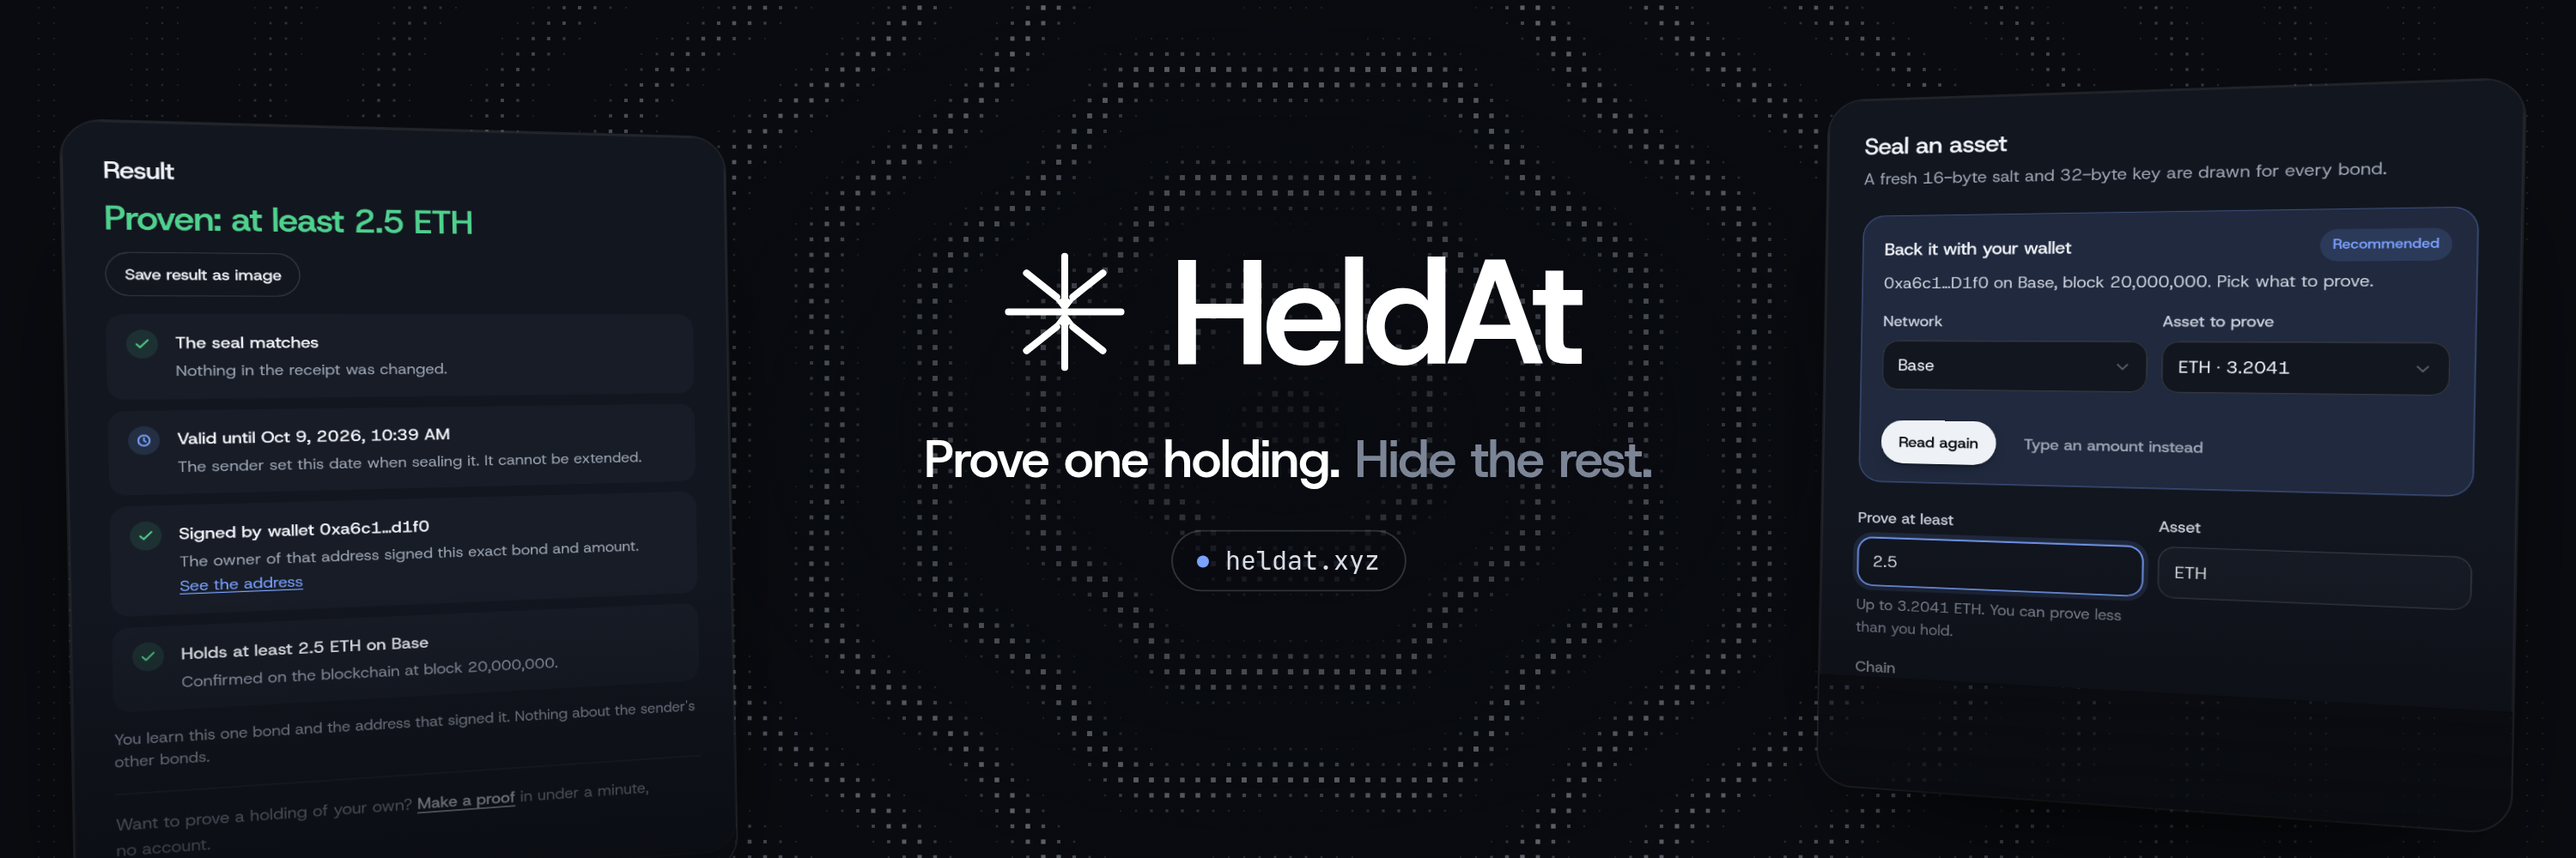
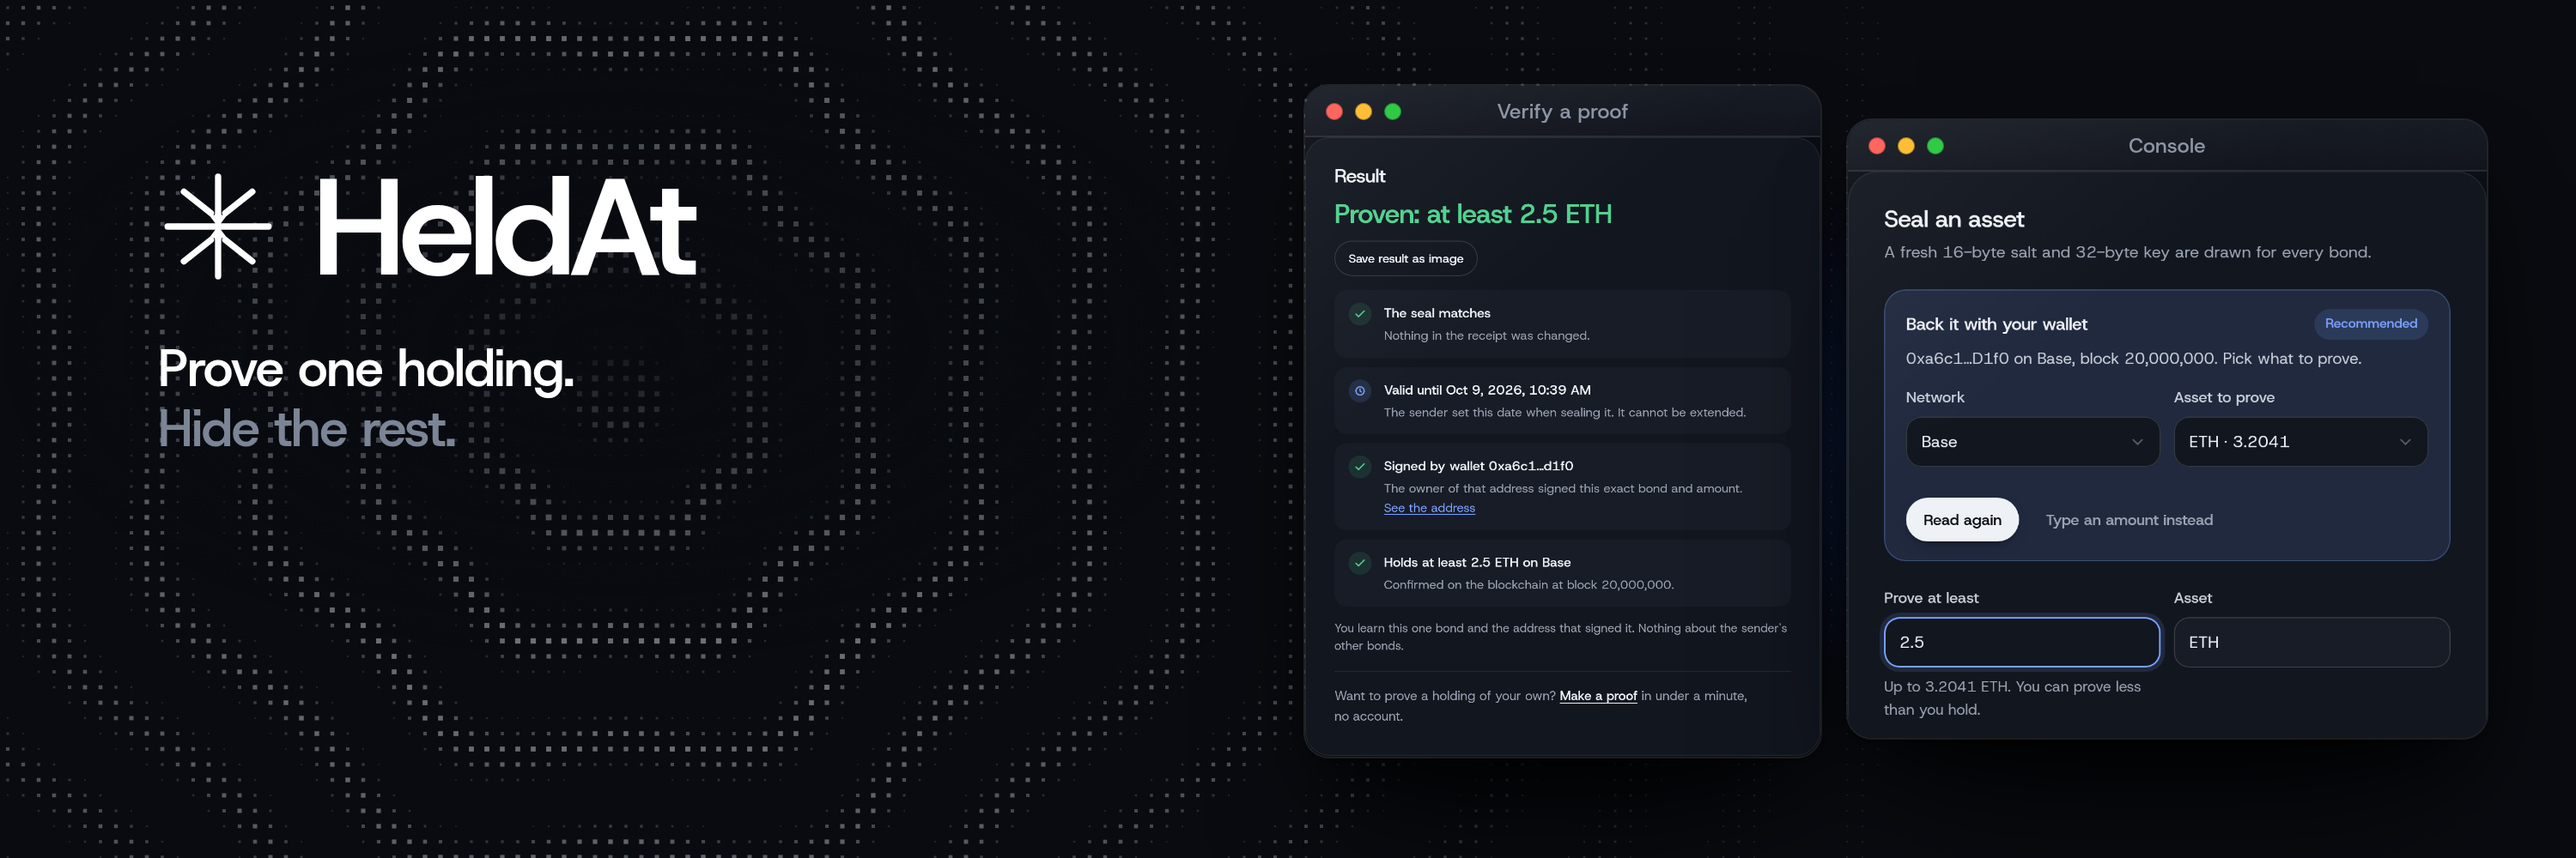
X header: brand left, two whole app windows right; dark profile picture
The profile picture X lays over the header's bottom-left corner no longer
hides a panel. Both panels are shown whole, framed as app windows.

Claude-Session: https://claude.ai/code/session_016xGdFk3MGNa2gnY6gwDCbX

diff --git a/obscura-site/tools/social.html b/obscura-site/tools/social.html
@@ -6,7 +6,7 @@
 <!--
   Source for assets/social/: the X header (1500x500) and two profile pictures
   (1000x1000). Rendered by tools/render-social.mjs. ?asset=header | pfp-blue | pfp-white.
-  The side panels of the header are screenshots of the real site (tools/social/).
+  The two windows in the header are screenshots of the real site (tools/social/).
 -->
 <style>
   @font-face { font-family: "Host Grotesk"; font-weight: 300 800; src: url(../assets/fonts/host-grotesk-latin.woff2) format("woff2"); }
@@ -16,28 +16,34 @@
   canvas.field { position: absolute; inset: 0; width: 100%; height: 100%; }
   .stage { position: relative; overflow: hidden; }
 
-  /* header */
-  .header { width: 1500px; height: 500px; background: #090b10; color: #fff; perspective: 1400px; }
-  .center { position: absolute; left: 50%; top: 50%; transform: translate(-50%, -54%); text-align: center; z-index: 3; }
-  .lockup { display: inline-flex; align-items: center; gap: 22px; }
-  .lockup svg { width: 78px; height: 78px; color: #fff; }
-  .lockup b { font-size: 86px; font-weight: 600; letter-spacing: -.045em; line-height: 1; }
-  .tag { margin-top: 22px; font-size: 30px; font-weight: 560; letter-spacing: -.02em; }
-  .tag span { color: #7c8596; }
-  .chip { margin-top: 22px; display: inline-flex; align-items: center; gap: 10px; padding: 8px 15px; border-radius: 999px; font: 15px "JetBrains Mono", monospace; color: #d7dce6; box-shadow: inset 0 0 0 1px rgba(255,255,255,.16); background: rgba(9,11,16,.6); }
-  .chip i { width: 7px; height: 7px; border-radius: 50%; background: #7aa2ff; }
-  .panel { position: absolute; z-index: 2; border-radius: 22px; overflow: hidden; box-shadow: 0 40px 80px -30px rgba(0,0,0,.9), 0 0 0 1px rgba(255,255,255,.1); }
-  .panel img { display: block; width: 100%; }
-  .panel::after { content: ""; position: absolute; inset: 0; background: linear-gradient(180deg, transparent 60%, rgba(9,11,16,.85)); }
-  .left { width: 380px; height: 470px; left: 40px; top: 70px; transform: rotateY(22deg) rotateZ(-1deg); transform-origin: left center; }
-  .right { width: 400px; height: 440px; right: 34px; top: 46px; transform: rotateY(-22deg) rotateZ(1deg); transform-origin: right center; }
-  .fade { position: absolute; inset: 0; z-index: 1; background: radial-gradient(ellipse 34% 70% at 50% 50%, rgba(9,11,16,.9), transparent 75%); }
+  /* header: brand on the left, clear of the profile picture X lays over the
+     bottom-left corner; two app windows on the right, shown whole */
+  .header { width: 1500px; height: 500px; background: #090b10; color: #fff; }
+  .center { position: absolute; left: 92px; top: 92px; z-index: 3; }
+  .lockup { display: inline-flex; align-items: center; gap: 20px; }
+  .lockup svg { width: 70px; height: 70px; color: #fff; }
+  .lockup b { font-size: 80px; font-weight: 600; letter-spacing: -.045em; line-height: 1; }
+  .tag { margin-top: 26px; font-size: 30px; font-weight: 560; letter-spacing: -.02em; line-height: 1.15; }
+  .tag span { display: block; color: #7c8596; }
+  .glow { position: absolute; z-index: 1; left: 700px; top: 20px; width: 820px; height: 480px; background: radial-gradient(ellipse 50% 50% at 55% 50%, rgba(36,88,232,.22), transparent 70%); }
+  .fade { position: absolute; inset: 0; z-index: 1; background: radial-gradient(ellipse 30% 46% at 24% 40%, rgba(9,11,16,.92), transparent 80%); }
+  .win { position: absolute; z-index: 2; border-radius: 14px; overflow: hidden; background: #0e1118;
+    box-shadow: 0 0 0 1px rgba(255,255,255,.11), inset 0 1px 0 rgba(255,255,255,.06), 0 2px 4px rgba(0,0,0,.4), 0 24px 48px -12px rgba(0,0,0,.75), 0 60px 90px -40px rgba(0,0,0,.9); }
+  .win .bar { position: relative; height: 30px; display: flex; align-items: center; gap: 7px; padding: 0 12px; background: linear-gradient(#171b24, #12151d); border-bottom: 1px solid rgba(255,255,255,.07); }
+  .win .bar i { width: 10px; height: 10px; border-radius: 50%; box-shadow: inset 0 0 0 .5px rgba(0,0,0,.35); }
+  .win .bar i:nth-child(1) { background: #ff5f57; } .win .bar i:nth-child(2) { background: #febc2e; } .win .bar i:nth-child(3) { background: #28c840; }
+  .win .bar span { position: absolute; left: 0; right: 0; text-align: center; font-size: 12px; font-weight: 500; color: #8b93a3; letter-spacing: .01em; }
+  .win img { display: block; width: 100%; }
+  .win::after { content: ""; position: absolute; inset: 0; pointer-events: none; border-radius: inherit; background: linear-gradient(140deg, rgba(255,255,255,.05), transparent 35%); }
+  .w-verify { width: 300px; left: 760px; top: 50px; }
+  .w-console { width: 372px; height: 360px; right: 52px; top: 70px; } /* ends under the amount hint */
 
   /* profile pictures */
   .pfp { width: 1000px; height: 1000px; display: grid; place-items: center; }
   .pfp svg { position: relative; z-index: 2; width: 520px; height: 520px; }
   .pfp-blue { background: #2458e8; color: #fff; }
   .pfp-white { background: #fff; color: #0d1016; }
+  .pfp-night { background: #090b10; color: #fff; }
 </style>
 </head>
 <body>
@@ -62,19 +68,21 @@ function field(canvas, w, h, { cx, cy, gap, reach, color, alpha, fadeCenter = 0 
 if (asset === "header") {
   document.body.innerHTML = `<div class="stage header">
     <canvas class="field"></canvas>
-    <div class="panel left"><img src="social/verify-result.png" alt=""></div>
-    <div class="panel right"><img src="social/console-form.png" alt=""></div>
+    <div class="glow"></div>
     <div class="fade"></div>
+    <div class="win w-verify"><div class="bar"><i></i><i></i><i></i><span>Verify a proof</span></div><img src="social/verify-result.png" alt=""></div>
+    <div class="win w-console"><div class="bar"><i></i><i></i><i></i><span>Console</span></div><img src="social/console-form.png" alt=""></div>
     <div class="center">
       <div class="lockup">${MARK(5.2)}<b>HeldAt</b></div>
       <p class="tag">Prove one holding. <span>Hide the rest.</span></p>
-      <p class="chip"><i></i>heldat.xyz</p>
     </div></div>`;
-  field(document.querySelector(".field"), 1500, 500, { cx: 750, cy: 250, gap: 9, reach: 820, color: "#d6deec", alpha: [0.06, 0.55] });
+  field(document.querySelector(".field"), 1500, 500, { cx: 360, cy: 230, gap: 9, reach: 820, color: "#d6deec", alpha: [0.06, 0.55] });
 } else {
-  const blue = asset === "pfp-blue";
-  document.body.innerHTML = `<div class="stage pfp ${blue ? "pfp-blue" : "pfp-white"}"><canvas class="field"></canvas>${MARK(4.4)}</div>`;
-  if (blue) field(document.querySelector(".field"), 1000, 1000, { cx: 500, cy: 500, gap: 18, reach: 760, color: "#dbe6ff", alpha: [0.18, 0.75], fadeCenter: 320 });
+  const blue = asset === "pfp-blue", night = asset === "pfp-night";
+  document.body.innerHTML = `<div class="stage pfp ${asset}"><canvas class="field"></canvas>${MARK(4.4)}</div>`;
+  // the header's background: dark, with the same quiet dots
+  if (night) field(document.querySelector(".field"), 1000, 1000, { cx: 500, cy: 500, gap: 14, reach: 900, color: "#d6deec", alpha: [0.06, 0.55], fadeCenter: 300 });
+  else if (blue) field(document.querySelector(".field"), 1000, 1000, { cx: 500, cy: 500, gap: 18, reach: 760, color: "#dbe6ff", alpha: [0.18, 0.75], fadeCenter: 320 });
   else document.querySelector(".field").remove();
 }
 Promise.all([document.fonts.ready, ...[...document.images].map((i) => i.decode().catch(() => {}))]).then(() => { window.READY = true; });
